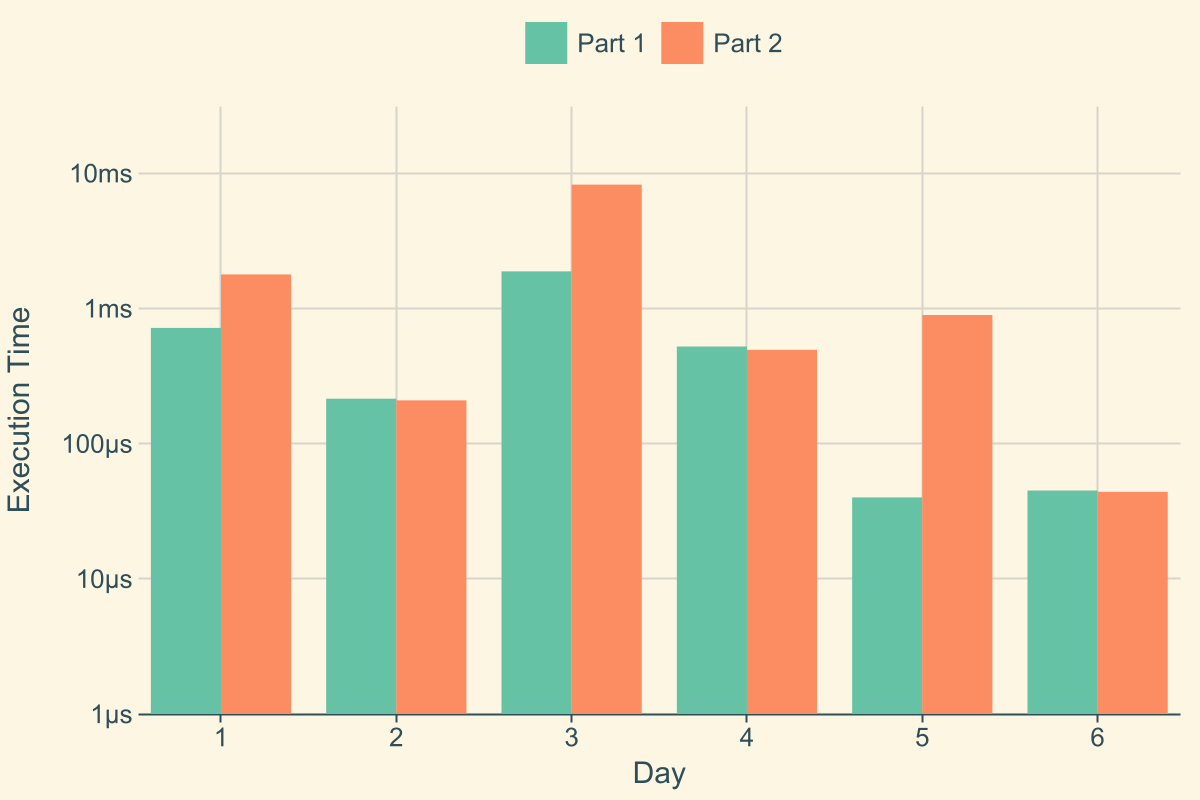
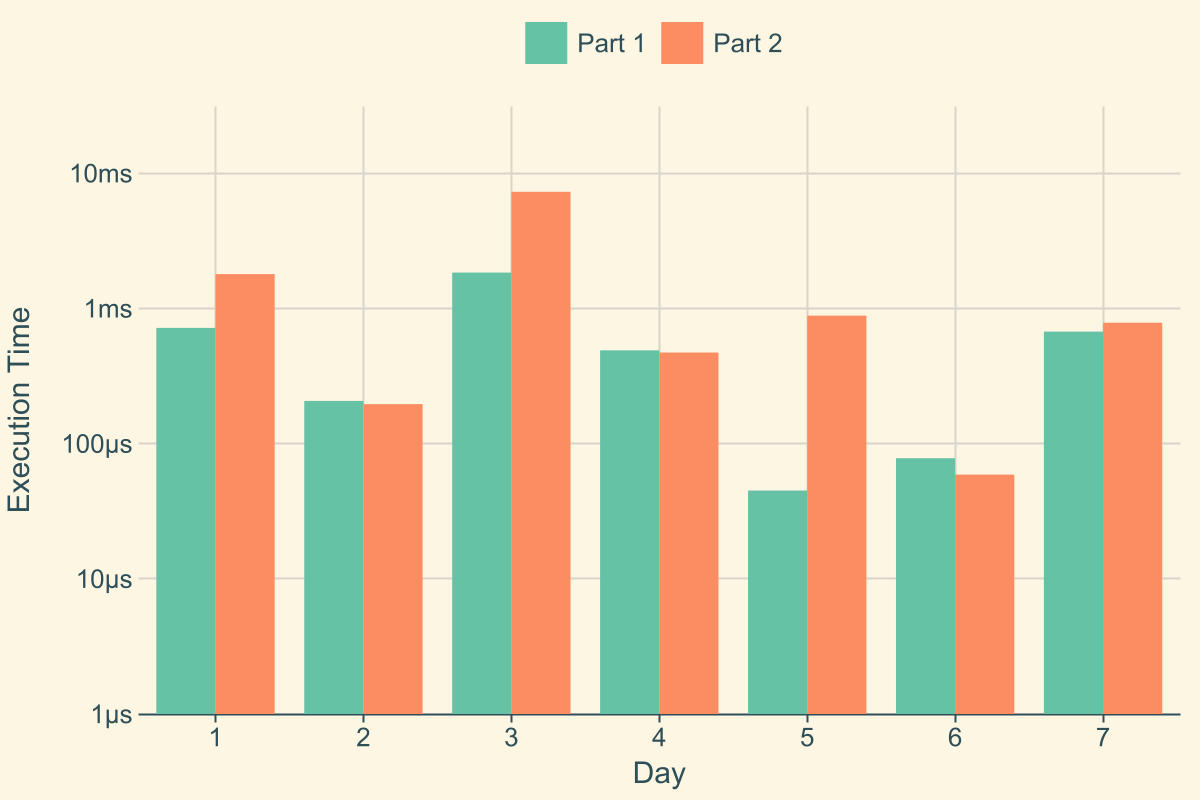
7

Changed region(s): [[0.2158, 0.2188, 0.9867, 0.9375], [0.1233, 0.3438, 0.185, 0.9375]]

diff --git a/src/day07.rs b/src/day07.rs
@@ -1,0 +1,209 @@
+#![allow(warnings, unused)]
+
+use std::cmp::{max, min};
+use std::collections::HashSet;
+use std::ops::Range;
+use std::str::FromStr;
+
+use regex::Regex;
+
+use crate::harness::{Day, Part};
+
+pub fn day07() -> Day<u64, u64> {
+    Day::new(7, Box::new(Part1 {}), Box::new(Part2 {}))
+}
+
+pub struct Part1;
+
+impl Part<u64> for Part1 {
+    fn expect_test(&self) -> u64 {
+        6440
+    }
+
+    fn solve(&self, input: &Vec<String>) -> u64 {
+        let mut vec = input.into_iter()
+            .filter(|s| !s.is_empty())
+            .map(|l| {
+                let mut split = l.split(" ");
+                Hand::new_part_1(
+                    split.next().unwrap().to_string(),
+                    split.next().unwrap().parse().unwrap(),
+                )
+            })
+            .collect::<Vec<_>>();
+
+        vec.sort_by_cached_key(|h| (h.hand_type, h.card_values[0], h.card_values[1], h.card_values[2], h.card_values[3], h.card_values[4]));
+
+        vec.iter()
+            .enumerate()
+            .map(|(i, &Hand { bid, .. })| (i + 1) as u64 * bid as u64)
+            .sum()
+    }
+}
+
+pub struct Part2;
+
+impl Part<u64> for Part2 {
+    fn expect_test(&self) -> u64 {
+        5905
+    }
+
+    fn solve(&self, input: &Vec<String>) -> u64 {
+        let mut vec = input.into_iter()
+            .filter(|s| !s.is_empty())
+            .map(|l| {
+                let mut split = l.split(" ");
+                Hand::new_part_2(
+                    split.next().unwrap().to_string(),
+                    split.next().unwrap().parse().unwrap(),
+                )
+            })
+            .collect::<Vec<_>>();
+
+        vec.sort_by_cached_key(|h| (h.hand_type, h.card_values[0], h.card_values[1], h.card_values[2], h.card_values[3], h.card_values[4]));
+
+        vec.iter()
+            .enumerate()
+            .map(|(i, &Hand { bid, .. })| (i + 1) as u64 * bid as u64)
+            .sum()
+
+    }
+}
+
+#[derive(Debug, Copy, Clone, Ord, PartialOrd, Eq, PartialEq)]
+enum HandType {
+    FiveOfAKind = 6,
+    FourOfAKind = 5,
+    FullHouse = 4,
+    ThreeOfAKind = 3,
+    TwoPair = 2,
+    OnePair = 1,
+    HighCard = 0,
+}
+
+#[derive(Debug)]
+struct Hand {
+    cards: String,
+    card_values: Vec<u32>,
+    bid: u32,
+    hand_type: HandType,
+}
+
+impl Hand {
+    pub fn new_part_1(cards: String, bid: u32) -> Self {
+        let hand_type = Self::calculate_hand_type_part_1(&cards);
+
+        let card_values = Self::calculate_card_values_part_1(&cards);
+        Self { cards, card_values, bid, hand_type }
+    }
+
+    pub fn new_part_2(cards: String, bid: u32) -> Self {
+        let hand_type = Self::calculate_hand_type_part_2(&cards);
+
+        let card_values = Self::calculate_card_values_part_2(&cards);
+        Self { cards, card_values, bid, hand_type }
+    }
+
+    fn calculate_card_values_part_1(cards: &str) -> Vec<u32> {
+        cards.chars().map(|c| {
+            match c {
+                'A' => 14,
+                'K' => 13,
+                'Q' => 12,
+                'J' => 11,
+                'T' => 10,
+                _ if c.is_numeric() => c.to_digit(10).unwrap(),
+                _ => panic!(),
+            }
+        }).collect()
+    }
+
+    fn calculate_hand_type_part_1(cards: &str) -> HandType {
+        let distinct_chars = cards.chars().collect::<HashSet<_>>();
+
+        match distinct_chars.len() {
+            1 => HandType::FiveOfAKind,
+            2 => {
+                let query_char = distinct_chars.iter().next().unwrap();
+                let query_count = cards.chars().filter(|c| c == query_char).count();
+
+                if query_count == 1 || query_count == 4 {
+                    HandType::FourOfAKind
+                } else {
+                    HandType::FullHouse
+                }
+            }
+            3 => {
+                let any_threes = distinct_chars.iter().map(|c1| cards.chars().filter(|c2| c1 == c2).count()).any(|v| v == 3);
+
+                if any_threes {
+                    HandType::ThreeOfAKind
+                } else {
+                    HandType::TwoPair
+                }
+            }
+            4 => HandType::OnePair,
+            5 => HandType::HighCard,
+            _ => panic!(),
+        }
+    }
+
+    fn calculate_card_values_part_2(cards: &str) -> Vec<u32> {
+        cards.chars().map(|c| {
+            match c {
+                'A' => 14,
+                'K' => 13,
+                'Q' => 12,
+                'T' => 10,
+                _ if c.is_numeric() => c.to_digit(10).unwrap(),
+                'J' => 0,
+                _ => panic!(),
+            }
+        }).collect()
+    }
+
+    fn calculate_hand_type_part_2(cards: &str) -> HandType {
+        let distinct_chars = cards.chars().filter(|&c| c != 'J').collect::<HashSet<_>>();
+        let distinct_count = distinct_chars.len();
+        let joker_count = cards.chars().filter(|&c| c == 'J').count();
+
+        match joker_count {
+            5 | 4 => HandType::FiveOfAKind,
+            3 => {
+                match distinct_chars.len() {
+                    1 => HandType::FiveOfAKind,
+                    2 => HandType::FourOfAKind,
+                    _ => panic!(),
+                }
+            }
+            2 => {
+                match distinct_chars.len() {
+                    1 => HandType::FiveOfAKind,
+                    2 => HandType::FourOfAKind,
+                    3 => HandType::ThreeOfAKind,
+                    _ => panic!(),
+                }
+            }
+            1 => {
+                match distinct_chars.len() {
+                    1 => HandType::FiveOfAKind,
+                    2 => {
+                        let query_char = distinct_chars.iter().next().unwrap();
+                        let query_count = cards.chars().filter(|c| c == query_char).count();
+
+                        if query_count == 1 || query_count == 3 {
+                            HandType::FourOfAKind
+                        } else {
+                            HandType::FullHouse
+                        }
+                    },
+                    3 => HandType::ThreeOfAKind,
+                    4 => HandType::OnePair,
+                    _ => panic!(),
+                }
+            }
+            0 => Self::calculate_hand_type_part_1(cards),
+            _ => panic!()
+        }
+    }
+}

diff --git a/src/main.rs b/src/main.rs
@@ -16,7 +16,7 @@ use crate::day03::day03;
 use crate::day04::day04;
 use crate::day05::day05;
 use crate::day06::day06;
-// use crate::day07::day07;
+use crate::day07::day07;
 // use crate::day08::day08;
 // use crate::day09::day09;
 // use crate::day10::day10;
@@ -44,7 +44,7 @@ mod day03;
 mod day04;
 mod day05;
 mod day06;
-// mod day07;
+mod day07;
 // mod day08;
 // mod day09;
 // mod day10;
@@ -72,7 +72,7 @@ fn main() {
         day04().f(),
         day05().f(),
         day06().f(),
-        // day07().f(),
+        day07().f(),
         // day08().f(),
         // day09().f(),
         // day10().f(),
